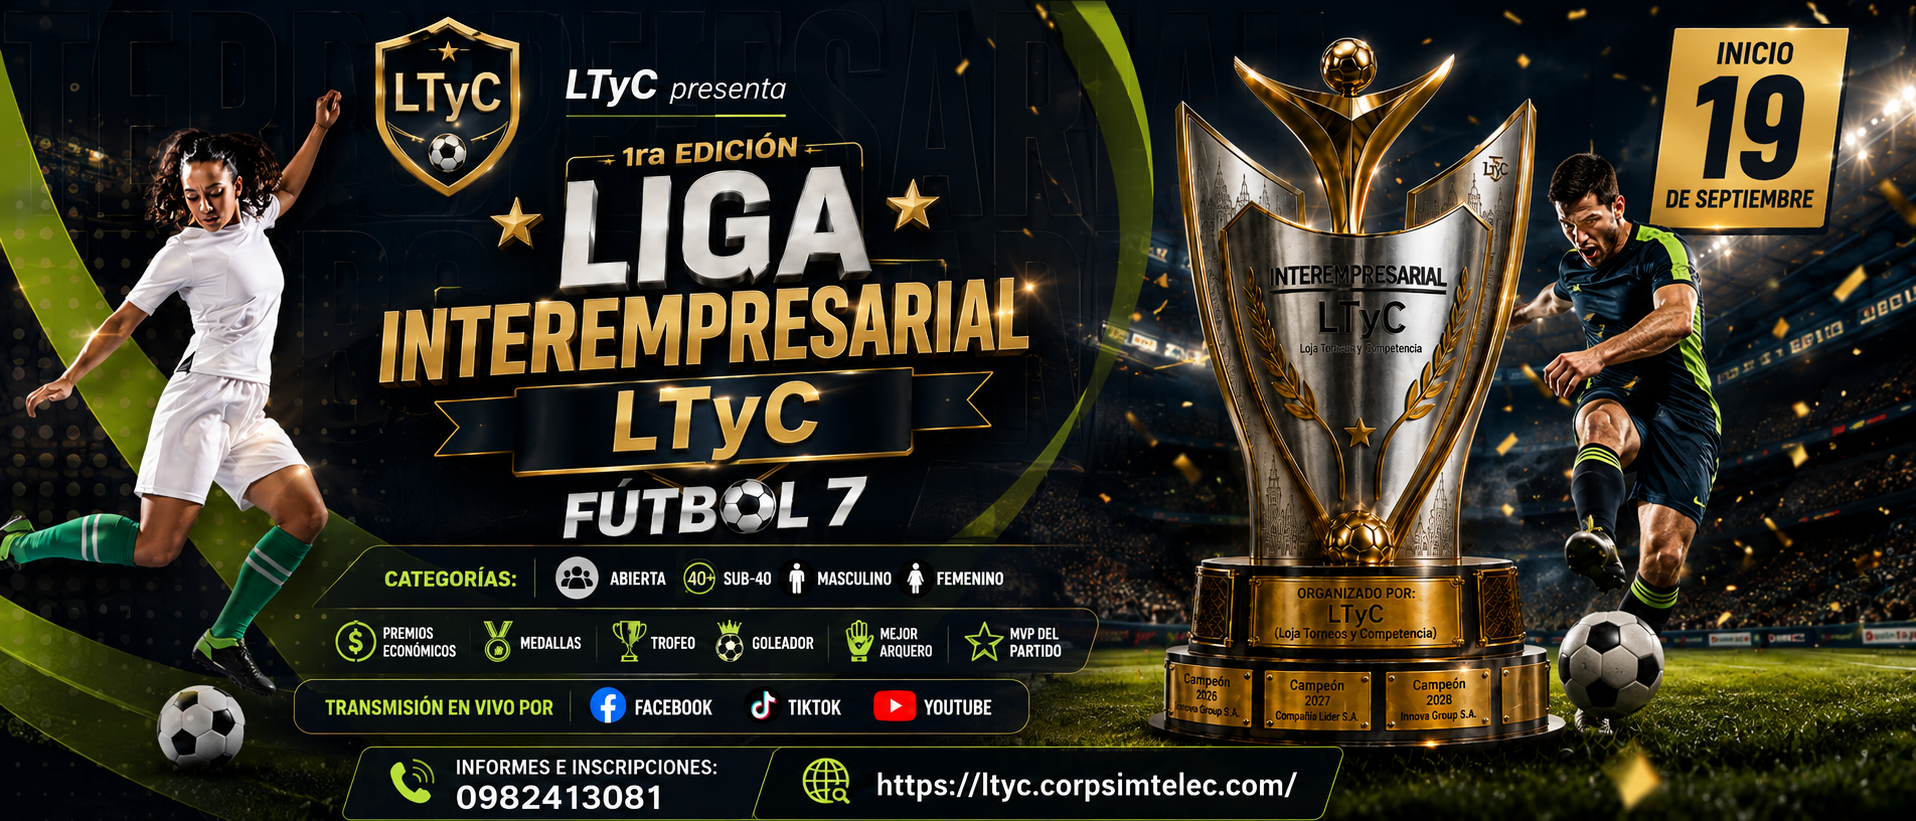
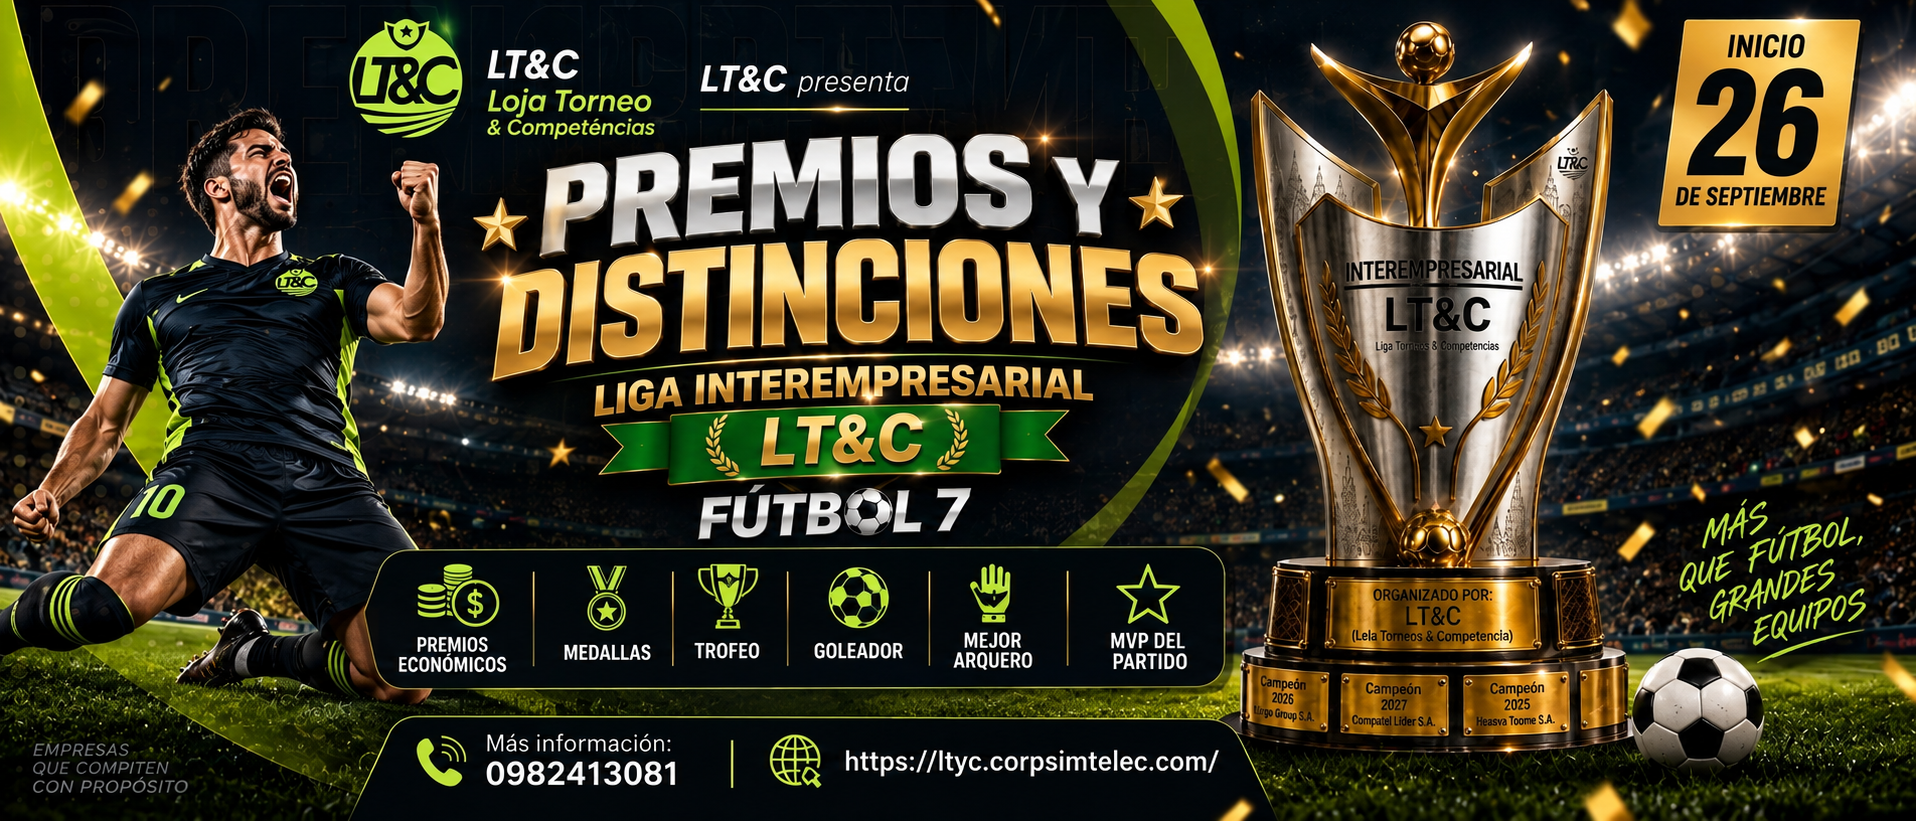
feat(home): actualizar slides publicitarios Liga Interempresarial LT&C
- Reemplaza banners obsoletos (wide-2.png, square.png) por 3 wide + 2 square nuevos
- Slider ltc-home-promo-slider ahora rota 5 slides (antes 3): animacion 30s, delays 0/6/12/18/24s
- Alt text descriptivo por slide (premios, transmision en vivo, inscripciones, 1ra edicion)

diff --git a/frontend/index.html b/frontend/index.html
@@ -222,9 +222,11 @@
         </div>
 
         <div class="ltc-home-promo-slider" aria-label="Publicidad Liga Interempresarial LT&C">
-          <img src="assets/ltc/home/slider/liga-interempresarial-wide.png" alt="Publicidad Liga Interempresarial LT&C" />
-          <img src="assets/ltc/home/slider/liga-interempresarial-wide-2.png" alt="Publicidad Liga Interempresarial futbol 7" />
-          <img src="assets/ltc/home/slider/liga-interempresarial-square.png" alt="Inscripciones Liga Interempresarial" />
+          <img src="assets/ltc/home/slider/liga-interempresarial-wide.png" alt="Premios y distinciones Liga Interempresarial LT&C Futbol 7" />
+          <img src="assets/ltc/home/slider/liga-interempresarial-wide2.png" alt="Transmision en vivo Liga Interempresarial LT&C Futbol 7" />
+          <img src="assets/ltc/home/slider/liga-interempresarial-wide3.png" alt="Inscripciones abiertas Liga Interempresarial LT&C Futbol 7" />
+          <img src="assets/ltc/home/slider/liga-interempresarial-square.jpg" alt="1ra edicion Liga Interempresarial LT&C Futbol 7" />
+          <img src="assets/ltc/home/slider/liga-interempresarial-square2.jpg" alt="Liga Interempresarial LT&C Futbol 7" />
         </div>
       </div>
     </section>

diff --git a/frontend/css/portal.css b/frontend/css/portal.css
@@ -4846,7 +4846,7 @@ body.ltc-landing-mode .ltc-home-hero-slider img:not(:first-child) {
   object-position: center;
   background: var(--ltc-home-ink-dark);
   opacity: 0;
-  animation: ltcHomePromoFade 18s infinite;
+  animation: ltcHomePromoFade 30s infinite;
 }
 
 .ltc-home-promo-slider img:nth-child(2) {
@@ -4855,6 +4855,14 @@ body.ltc-landing-mode .ltc-home-hero-slider img:not(:first-child) {
 
 .ltc-home-promo-slider img:nth-child(3) {
   animation-delay: 12s;
+}
+
+.ltc-home-promo-slider img:nth-child(4) {
+  animation-delay: 18s;
+}
+
+.ltc-home-promo-slider img:nth-child(5) {
+  animation-delay: 24s;
 }
 
 @keyframes ltcHomePromoFade {
